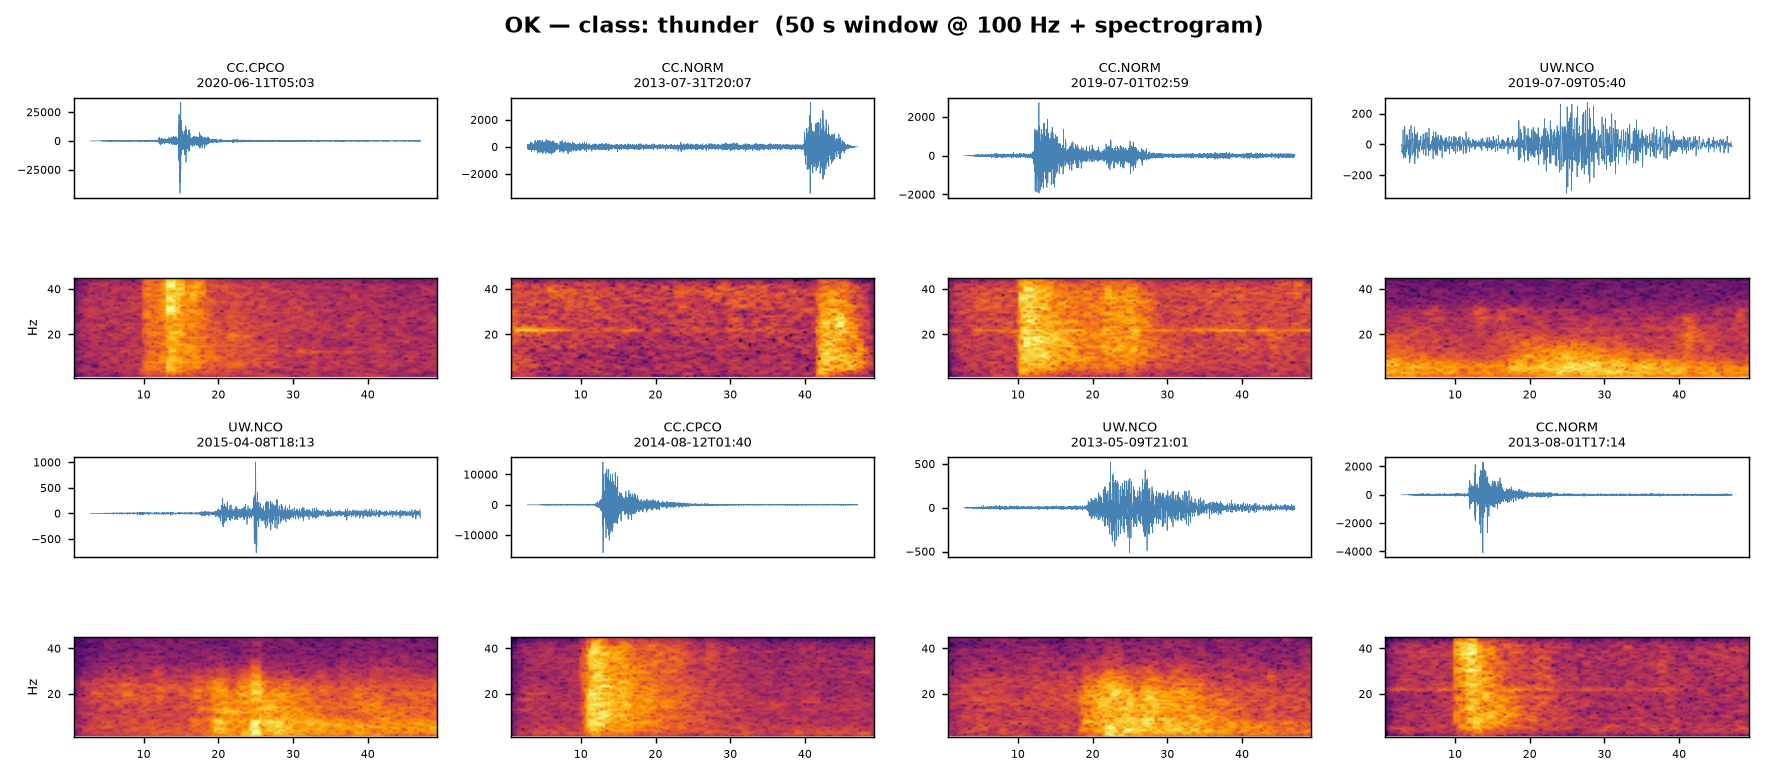
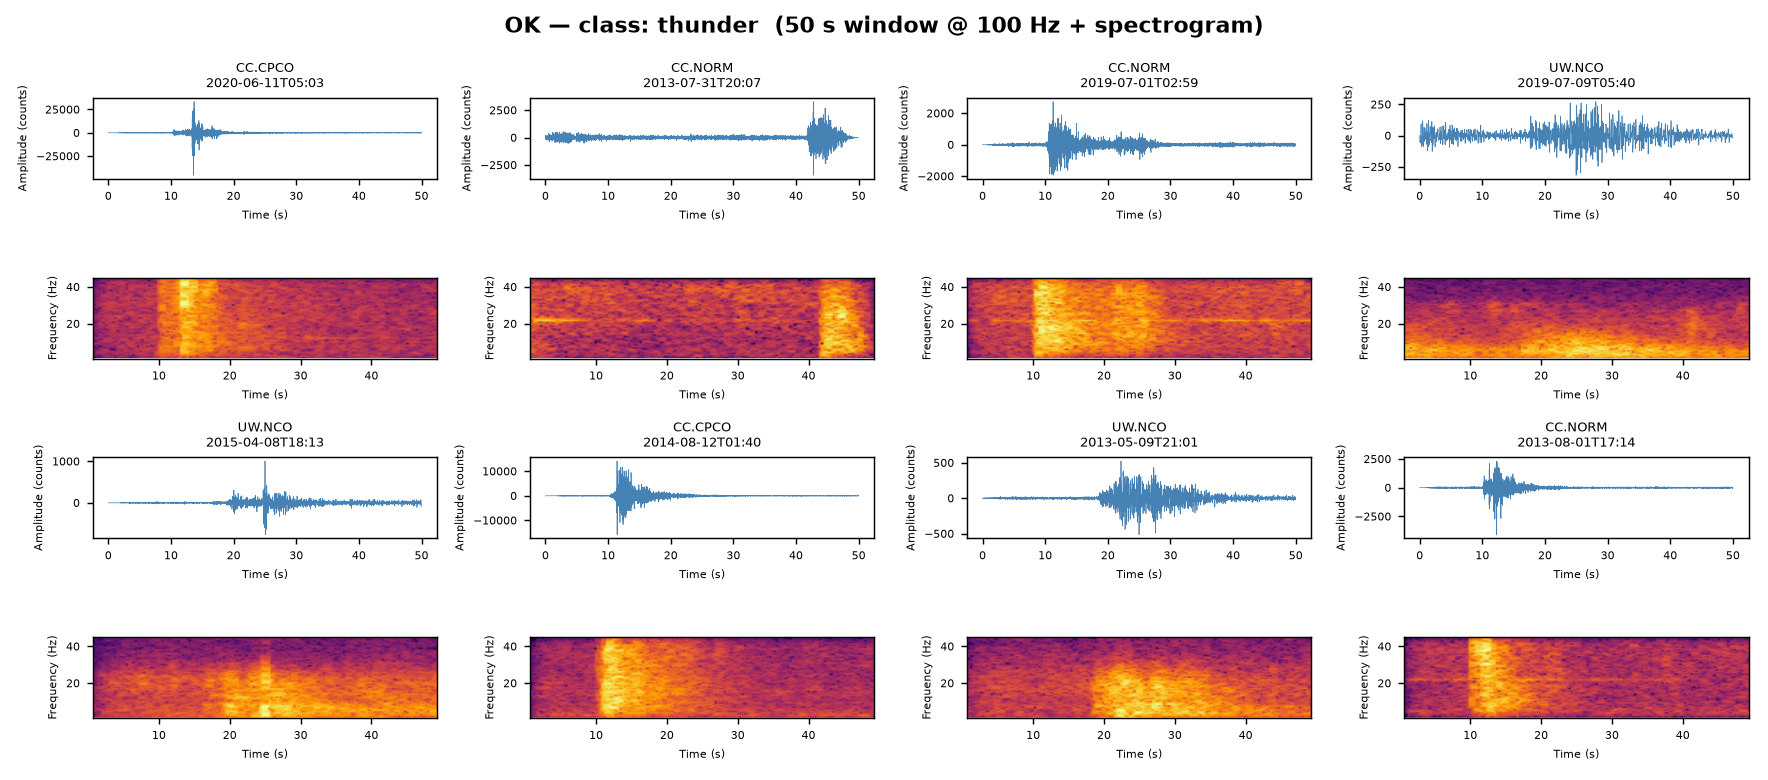
WS5: progress report + axis-label audit across all plotting scripts
- report/manuscript.qmd: full Quarto progress report (intro, data, methods,
  results/QC, follow-up work) embedding all 15 figures generated across
  WS0-WS4. Renders cleanly; every figure reference verified against disk.
- Axis-label audit (all plotting scripts): station maps now show explicit
  degree units; PNWML distribution plots use readable unit labels instead of
  raw variable names; waveform/spectrogram galleries (plot_waveforms,
  extract_ok_thunder_candidates, verify_seismoacoustic_candidates) had titles
  but no axis labels at all -- added Time (s) / Amplitude (counts) /
  Frequency (Hz) throughout; detection scripts' probability/rate axes now
  explicit (0-1 fraction).
- Regenerated all 15 figures; cache-backed and GLM-refetched ones alike
  reproduced identical numbers to prior runs, confirming determinism.
- Caught and reverted a near-miss: an attempt to regenerate station maps via
  build_inventory.py --no-availability actually re-ran the full FDSN query and
  stripped the committed data_start/data_end/n_timespans availability columns
  from stations_OK_summary.csv/stations_OK_infrasound.csv. Reverted via git
  checkout before committing; redid the regeneration by calling plot_map()
  directly on the existing CSV with no FDSN query.

38 tests pass; ruff clean.

diff --git a/scripts/analyze_thunder.py b/scripts/analyze_thunder.py
@@ -104,14 +104,15 @@ def main() -> int:
         axes[0].axvline(p, ls="--", lw=1, color="crimson")
         axes[0].text(p, axes[0].get_ylim()[1] * 0.9, f"{lab}={p:.0f}s", fontsize=8, rotation=90)
     axes[0].axvspan(0, 50, alpha=0.08, color="green")
-    axes[0].set(xlabel="Episode span above 3×noise (s)", ylabel="# traces",
+    axes[0].set(xlabel="Episode span above 3x noise floor (s)", ylabel="Number of traces",
                 title=f"Thunderquake episode duration (n={len(spans)})\n"
                       "green = proposed 50 s window; claps recur across the span")
     for name, data, fs, span in examples:
         t = np.arange(len(data)) / fs
         e = smooth_env(data, fs)
         axes[1].plot(t, e / e.max(), lw=0.8, label=f"{name} (span {span:.0f}s)")
-    axes[1].set(xlabel="Time in 150 s window (s)", ylabel="Norm. envelope",
+    axes[1].set(xlabel="Time in 150 s window (s)",
+                ylabel="Normalized envelope amplitude (peak = 1, dimensionless)",
                 title="Example thunder envelopes (multi-clap episodes)", xlim=(0, 150))
     axes[1].legend(fontsize=8)
     fig.tight_layout()
@@ -146,12 +147,13 @@ def main() -> int:
     axes[0].scatter(hi["lag_s"], hi["xcorr"], s=30, c="crimson",
                     label=f"xcorr≥0.5 (n={len(hi)})")
     axes[0].axhline(0.5, ls=":", c="k", lw=0.8)
-    axes[0].set(xlabel="Envelope lag: infrasound − seismic (s)", ylabel="Peak cross-correlation",
+    axes[0].set(xlabel="Envelope lag: infrasound minus seismic (s)",
+                ylabel="Peak cross-correlation coefficient (dimensionless, -1 to 1)",
                 title="Seismo-acoustic coupling at thunder stations\n(CC.CPCO/KWBU/SVIC)")
     axes[0].legend(fontsize=8)
     axes[1].hist(sa["lag_s"], bins=25, color="teal", edgecolor="white")
     axes[1].axvline(0, color="crimson", ls="--", lw=1)
-    axes[1].set(xlabel="Envelope lag infrasound − seismic (s)", ylabel="# events",
+    axes[1].set(xlabel="Envelope lag: infrasound minus seismic (s)", ylabel="Number of events",
                 title=f"Lag distribution (median {sa['lag_s'].median():+.1f}s)")
     fig.tight_layout()
     fig.savefig(fig_dir / "pnwml_thunder_seismoacoustic.png", dpi=150)

diff --git a/scripts/characterize_pnwml.py b/scripts/characterize_pnwml.py
@@ -149,15 +149,20 @@ def main() -> int:
     print(f"  fig -> {(fig_dir / 'pnwml_spectra.png').relative_to(REPO_ROOT)}")
 
     # --- Figure 2: feature distributions by class ---
-    panels = ["spectral_flatness", "duration_80pct_s", "spectral_centroid_hz", "kurtosis"]
+    panels = [
+        ("spectral_flatness", "Spectral flatness (dimensionless, 0-1)"),
+        ("duration_80pct_s", "Duration containing 80% of energy (s)"),
+        ("spectral_centroid_hz", "Spectral centroid (Hz)"),
+        ("kurtosis", "Kurtosis (dimensionless)"),
+    ]
     fig, axes = plt.subplots(2, 2, figsize=(12, 9))
-    for ax, feat in zip(axes.ravel(), panels, strict=True):
+    for ax, (feat, ylabel) in zip(axes.ravel(), panels, strict=True):
         data = [df.loc[df["source_type"] == cls, feat].dropna().values for cls in classes]
         bp = ax.boxplot(data, tick_labels=classes, showfliers=False, patch_artist=True)
         for patch, cls in zip(bp["boxes"], classes, strict=True):
             patch.set_facecolor(colors[cls])
             patch.set_alpha(0.6)
-        ax.set(title=feat, ylabel=feat)
+        ax.set(title=ylabel, xlabel="Class", ylabel=ylabel)
         ax.tick_params(axis="x", rotation=20)
         if feat == "spectral_centroid_hz":
             ax.axhspan(1, 20, alpha=0.05, color="k")

diff --git a/scripts/detect_ok_thunderquakes.py b/scripts/detect_ok_thunderquakes.py
@@ -160,7 +160,7 @@ def main() -> int:
         ax.scatter(cand["time_utc"], cand["thunder_prob"], s=15, color="crimson", zorder=3,
                   label=f"candidates (n={len(cand)})")
     ax.axhline(0.5, color="0.6", ls=":", lw=1)
-    ax.set(ylabel="P(thunder)", ylim=(0, 1),
+    ax.set(xlabel="Time (UTC)", ylabel="P(thunder) (probability, 0-1)", ylim=(0, 1),
            title=f"{args.network}.{args.station} — Model A thunder probability vs GLM strike rate\n"
                  f"({t0:%Y-%m-%d %H:%M} → {t1:%H:%M} UTC)  [match radius "
                  f"{args.match_radius_km:.0f} km, window ±{args.match_window_s:.0f}s]")
@@ -172,7 +172,7 @@ def main() -> int:
         )
         centers = pd.to_datetime(edges[:-1], unit="ns", utc=True)
         ax2.bar(centers, counts, width=pd.Timedelta(seconds=28), color="orange", align="edge")
-    ax2.set(xlabel="Time (UTC)", ylabel="GLM flashes\n/ 30s (statewide)")
+    ax2.set(xlabel="Time (UTC)", ylabel="GLM flash count\nper 30 s (statewide)")
     fig.autofmt_xdate()
     fig.tight_layout()
     fig.savefig(fig_dir / f"ok_detection_{tag}.png", dpi=150)

diff --git a/scripts/verify_seismoacoustic_candidates.py b/scripts/verify_seismoacoustic_candidates.py
@@ -106,14 +106,15 @@ def main() -> int:
             aw.plot(ts, smooth_env(seis, fs_s), lw=0.8, color="steelblue", label="seismic env")
             aw.set_title(f"{ev.network}.{ev.station}  xcorr={coef:.2f} lag={lag:+.1f}s\n"
                         f"d={ev.min_dist_km*1000:.0f}m  {str(ev.event_start)[:16]}", fontsize=6)
+            aw.set_xlabel("Time (s)", fontsize=6)
+            aw.set_ylabel("Seismic envelope\namplitude (counts)", fontsize=6)
             aw.tick_params(labelsize=6)
             ai = axes[r * 2 + 1][c]
             ai.plot(ti, smooth_env(infra_data, fs_i), lw=0.8, color="darkorange",
                    label="infrasound env")
+            ai.set_xlabel("Time (s)", fontsize=6)
+            ai.set_ylabel("Infrasound envelope\namplitude (counts)", fontsize=6)
             ai.tick_params(labelsize=6)
-            if c == 0:
-                aw.set_ylabel("seismic", fontsize=7)
-                ai.set_ylabel("infrasound", fontsize=7)
         for k in range(n, nrow * ncol):
             r, c = divmod(k, ncol)
             axes[r * 2][c].axis("off")

diff --git a/scripts/plot_waveforms.py b/scripts/plot_waveforms.py
@@ -71,7 +71,8 @@ def main() -> int:
             aw.plot(t, w, lw=0.4, color="steelblue")
             m = ds.meta.iloc[i]
             aw.set_title(f"{m.network}.{m.station}\n{m.time[:16]}", fontsize=7)
-            aw.set_xticks([])
+            aw.set_xlabel("Time (s)", fontsize=6)
+            aw.set_ylabel("Amplitude (counts)", fontsize=6)
             aw.tick_params(labelsize=6)
             asp = axes[r * 2 + 1][c]
             f, tt, sxx = _spec(w, fs=cfg.fs, nperseg=cfg.nperseg, noverlap=cfg.noverlap)
@@ -79,9 +80,9 @@ def main() -> int:
             asp.pcolormesh(tt, f[band], 10 * np.log10(sxx[band] + 1e-12),
                            shading="gouraud", cmap="inferno")
             asp.set_ylim(cfg.band)
+            asp.set_xlabel("Time (s)", fontsize=6)
+            asp.set_ylabel("Frequency (Hz)", fontsize=6)
             asp.tick_params(labelsize=6)
-            if c == 0:
-                asp.set_ylabel("Hz", fontsize=7)
         # blank any unused axes
         for k in range(len(idx), nrow * ncol):
             r, c = divmod(k, ncol)

diff --git a/scripts/extract_ok_thunder_candidates.py b/scripts/extract_ok_thunder_candidates.py
@@ -144,13 +144,16 @@ def main() -> int:
             aw.plot(t, data, lw=0.4, color="steelblue")
             aw.set_title(f"{ev.network}.{ev.station}  d={ev.min_dist_km*1000:.0f}m\n"
                         f"n_strikes={ev.n_strikes}  {str(ev.event_start)[:16]}", fontsize=6)
-            aw.set_xticks([])
+            aw.set_xlabel("Time (s)", fontsize=6)
+            aw.set_ylabel("Amplitude (counts)", fontsize=6)
             aw.tick_params(labelsize=6)
             asp = axes[r * 2 + 1][c]
             f, tt, sxx = _spec(data.astype(float), fs=fs, nperseg=128, noverlap=96)
             band = (f >= 1) & (f <= 45)
             asp.pcolormesh(tt, f[band], 10 * np.log10(sxx[band] + 1e-12),
                           shading="gouraud", cmap="inferno")
+            asp.set_xlabel("Time (s)", fontsize=6)
+            asp.set_ylabel("Frequency (Hz)", fontsize=6)
             asp.tick_params(labelsize=6)
         for k in range(len(fetched), nrow * ncol):
             r, c = divmod(k, ncol)

diff --git a/scripts/detect_ok_thunderquakes_batch.py b/scripts/detect_ok_thunderquakes_batch.py
@@ -177,8 +177,8 @@ def main() -> int:
     ax.bar(x - w / 2, cand_rates, w, label="candidate (model-flagged)", color="crimson")
     ax.bar(x + w / 2, null_rates, w, label="null (random windows)", color="0.6")
     ax.set_xticks(x, labels, rotation=20, ha="right")
-    ax.set(ylabel="Match rate vs GLM strike", ylim=(0, 1),
-           title=f"OK synchronous-lightning detection — candidate vs null match rate\n"
+    ax.set(xlabel="Station", ylabel="Match rate vs. GLM strike (fraction, 0-1)", ylim=(0, 1),
+           title="OK synchronous-lightning detection — candidate vs null match rate\n"
                  f"radius={args.match_radius_km:.0f} km, window=±{args.match_window_s:.0f}s  "
                  f"(pooled z={z:.2f}, p={p:.3f})")
     ax.legend(fontsize=9)

diff --git a/scripts/build_inventory.py b/scripts/build_inventory.py
@@ -56,7 +56,7 @@ def plot_map(summary, region: str, out_path: Path) -> None:
             ax.annotate(f"{r.network}.{r.station}", (r.longitude, r.latitude),
                         fontsize=5, color="darkred", xytext=(2, 2), textcoords="offset points")
     ax.set(
-        xlabel="Longitude", ylabel="Latitude", xlim=(lon0, lon1), ylim=(lat0, lat1),
+        xlabel="Longitude (°E)", ylabel="Latitude (°N)", xlim=(lon0, lon1), ylim=(lat0, lat1),
         title=f"{region} station coverage — seismic + infrasound (WS2)\n"
         f"fdsnws: {', '.join(spec['seismic_networks'])}"
         + (f"   |   PH5: {', '.join(spec['ph5_networks'])}" if spec.get("ph5_networks") else ""),

diff --git a/scripts/train_cnn.py b/scripts/train_cnn.py
@@ -86,10 +86,10 @@ def main() -> int:
         for j in range(len(classes)):
             ax.text(j, i, cm[i, j], ha="center",
                     color="white" if cm[i, j] > cm.max() / 2 else "black")
-    ax.set(xlabel="predicted", ylabel="true",
+    ax.set(xlabel="Predicted class", ylabel="True class",
            title=f"Model A ({best_label}, BlurPool + aug)\n"
                  f"{args.region} station-disjoint  thunder PR-AUC={best_ap:.2f}")
-    fig.colorbar(im, fraction=0.046)
+    fig.colorbar(im, fraction=0.046, label="Number of test-set windows")
     fig.tight_layout()
     fig.savefig(fig_dir / f"cnn_confusion_{args.region}.png", dpi=150)
 

diff --git a/scripts/survey_ok_close_strikes.py b/scripts/survey_ok_close_strikes.py
@@ -105,7 +105,7 @@ def main() -> int:
                     c=stations[f"n_strikes_within_{max_r:g}km"], cmap="inferno_r",
                     edgecolors="k", linewidths=0.3)
     fig.colorbar(sc, label=f"# strikes within {max_r:g} km")
-    ax.set(xlabel="Longitude", ylabel="Latitude", xlim=(lon0, lon1), ylim=(lat0, lat1),
+    ax.set(xlabel="Longitude (°E)", ylabel="Latitude (°N)", xlim=(lon0, lon1), ylim=(lat0, lat1),
           title=f"{args.region} close-strike survey (independent of model)\n"
                 f"{t0:%Y-%m-%d %H:%M} → {t1:%H:%M} UTC, radius {max_r:g} km")
     fig.tight_layout()

diff --git a/AI_LOG.md b/AI_LOG.md
@@ -239,6 +239,39 @@ entries short: what was asked, what was accepted/rejected, and why.
   infrasound cannot scale to most of the state given current station coverage.
 - 38 tests pass; ruff clean.
 
+## 2026-07-22 (cont.) — WS5 progress report + axis-label audit (Claude, Opus 4.8)
+- Wrote a full progress report (`report/manuscript.qmd`, Quarto) covering intro,
+  data, methods, results/QC, and follow-up work across WS0-WS4, embedding all
+  15 figures generated this session. Rendered successfully (`quarto render`);
+  every image reference verified to resolve to a real file on disk.
+- Mid-task: user asked that every plot have x/y axis labels with physical units.
+  Audited every plotting script and fixed gaps: station maps lacked degree units
+  ("Longitude"->"Longitude (°E)"); PNWML distribution boxplots used raw variable
+  names as labels instead of units ("kurtosis"->"Kurtosis (dimensionless)",
+  "duration_80pct_s"->"Duration containing 80% of energy (s)"); waveform/
+  spectrogram galleries (plot_waveforms.py, extract_ok_thunder_candidates.py,
+  verify_seismoacoustic_candidates.py) had titles but no axis labels at all on
+  the actual waveform/spectrogram subplots -- added "Time (s)" / "Amplitude
+  (counts)" / "Frequency (Hz)" throughout; detection scripts' P(thunder) and
+  match-rate axes clarified as explicit probabilities/fractions (0-1).
+- Regenerated all 15 figures. Cache-backed ones (PNWML characterization,
+  galleries) reproduced bit-for-bit identical numbers instantly. GLM-dependent
+  ones (close-strike map, single-station and batch detection) were refetched
+  and reproduced identical statistics (5,120/76 candidates, 40%/20%, 54%/42%
+  z=1.46 p=0.072, etc.) -- confirms the whole pipeline is deterministic.
+- **Caught and fixed a near-miss**: an attempt to regenerate the station maps
+  via `build_inventory.py --no-availability` (to skip the slow fdsnws-
+  availability query) actually re-ran the full FDSN station query and
+  overwrote `catalogs/stations_OK_summary.csv` / `stations_OK_infrasound.csv`,
+  stripping the committed `data_start`/`data_end`/`n_timespans` availability
+  columns before other regenerations could run. Caught via `git status` before
+  committing, reverted with `git checkout --`, and redid the map regeneration
+  the safe way: call `plot_map()` directly on the existing committed CSV, with
+  no FDSN query at all. A reminder that regenerating a committed derived
+  artifact should default to the narrowest operation that reproduces it, not
+  the full pipeline.
+- 38 tests pass; ruff clean.
+
 ## Template
 ### YYYY-MM-DD — <topic> (<model>)
 - Prompt/intent:
